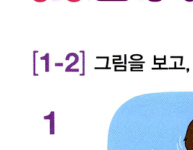
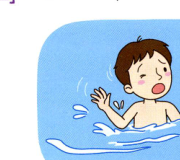
Audit RedZap 2 Reviews 01-05: fix crops and fill promptKo

diff --git a/scripts/red2-build/crop-review-images.py b/scripts/red2-build/crop-review-images.py
@@ -1,11 +1,19 @@
 #!/usr/bin/env python3
 """Crop Review picture items for RedZap 2; compress <60KB."""
 from pathlib import Path
+import os
 from PIL import Image
 
 REPO = Path(__file__).resolve().parents[2]
 OUT = REPO / "assets" / "img" / "red2"
 OUT.mkdir(parents=True, exist_ok=True)
+
+PAGES = Path(
+    os.environ.get(
+        "RED2_REVIEW_PAGES",
+        "/tmp/red2-audit/pages",
+    )
+)
 
 
 def save_compressed(im: Image.Image, path: Path, max_kb: int = 58) -> None:
@@ -28,17 +36,22 @@ def crop(page: Path, box, rel: str) -> None:
     print(out.relative_to(REPO), f"{out.stat().st_size / 1024:.1f} KB")
 
 
-# Review 02 p0071 — dog on car, ball under table
-rv02 = Path("/tmp/red2-rv02_994d/pages/p0071.png")
-crop(rv02, (55, 318, 248, 458), "review02/rv14.png")
-crop(rv02, (55, 488, 248, 628), "review02/rv15.png")
+def main() -> None:
+    if not PAGES.is_dir():
+        raise SystemExit(f"Page PNG folder not found: {PAGES}")
 
-# Review 05 p0165 — swim / jump
-rv05a = Path("/tmp/red2-rv05_ca3a/pages/p0165.png")
-crop(rv05a, (55, 118, 248, 268), "review05/rv01.png")
-crop(rv05a, (55, 288, 248, 438), "review05/rv02.png")
+    rv02 = PAGES / "p0071.png"
+    crop(rv02, (45, 748, 255, 898), "review02/rv14.png")
+    crop(rv02, (45, 958, 255, 1108), "review02/rv15.png")
 
-# Review 05 p0167 — don't sit / don't swim
-rv05b = Path("/tmp/red2-rv05_ca3a/pages/p0167.png")
-crop(rv05b, (55, 118, 248, 268), "review05/rv11.png")
-crop(rv05b, (55, 318, 248, 468), "review05/rv12.png")
+    rv05a = PAGES / "p0165.png"
+    crop(rv05a, (125, 190, 305, 350), "review05/rv01.png")
+    crop(rv05a, (555, 195, 672, 348), "review05/rv02.png")
+
+    rv05b = PAGES / "p0167.png"
+    crop(rv05b, (90, 175, 305, 340), "review05/rv11.png")
+    crop(rv05b, (90, 340, 305, 505), "review05/rv12.png")
+
+
+if __name__ == "__main__":
+    main()
